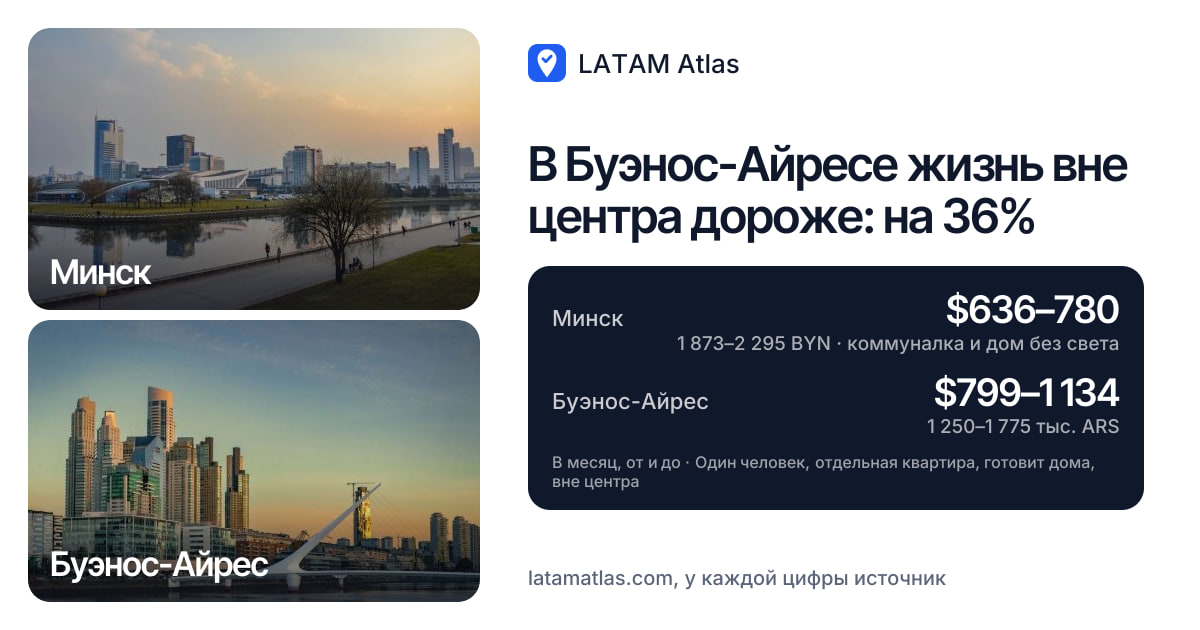
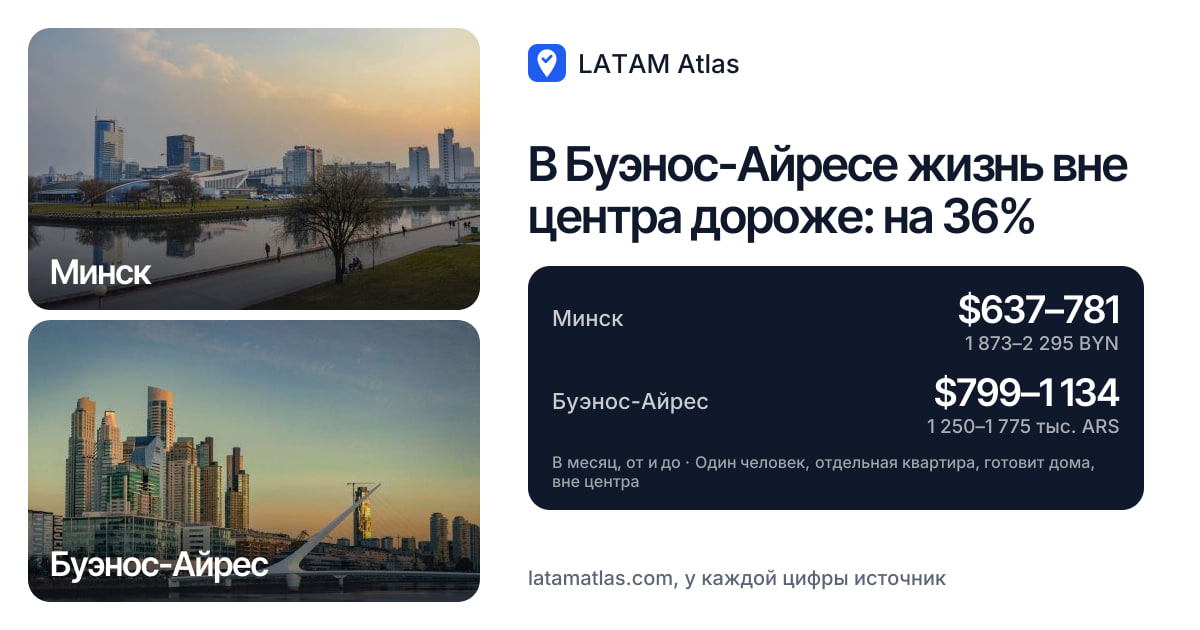
chore: атлас раз в три дня, узкие посты в конец, цифры и карточки 201-210 по живому сайту
Охват последних постов атласа упал до 130-320 просмотров. По решению Артема 01.11.2026:
реже (раз в 3 дня вместо ежедневно), вперёд ВНЖ по доходу и одобренные сравнения 201-210,
посты про отдельные города Патагонии и Энкарнасьон/Пунту в конец (401-407).
Цифры 201-210 сверены с latamatlas.com 01.11 (сдвиг курса), карточки сняты с /og/cost живого сайта.

Changed region(s): [[0.555, 0.4524, 0.9558, 0.573]]

diff --git a/publish.py b/publish.py
@@ -24,9 +24,9 @@ slowframes). Картинки — JPEG или PNG (официально подд
 сразу после публикации.
 
 Ритм у каждой очереди свой (days в QUEUES): slowframes — раз в три дня,
-атлас — каждый день, кроме дней slowframes (с 01.10.2026, просьба Артема
-«надо каждый день что-то выкладывать»): в ленте что-то выходит ежедневно,
-но не парой. MIN_INTERVAL_DAYS в окружении перебивает оба. Расписание в
+атлас — тоже раз в три дня (с 01.11.2026: с 01.10 выходил ежедневно, охват
+последних постов упал до 130-320 просмотров, Артем решил реже, но сильнее),
+и не в день slowframes: посты чередуются, а не выходят парой. MIN_INTERVAL_DAYS в окружении перебивает оба. Расписание в
 GitHub Actions ежедневное, а интервал держит сам скрипт: cron вида
 «*/3» на стыке месяцев даёт то три дня, то один, и очередь съезжает.
 Здесь же считается разница с последней публикацией, так что пропущенный
@@ -69,7 +69,7 @@ MAX_CHARS = 500
 QUEUES = {
     'slowframes': {'dir': 'queue', 'state': 'state/published.json', 'days': 3},
     # avoid — не публиковать, если другая очередь выходила меньше AVOID_DAYS назад
-    'atlas': {'dir': 'queue-atlas', 'state': 'state/published-atlas.json', 'avoid': 'slowframes', 'days': 1},
+    'atlas': {'dir': 'queue-atlas', 'state': 'state/published-atlas.json', 'avoid': 'slowframes', 'days': 3},
 }
 AVOID_DAYS = 0.5
 
